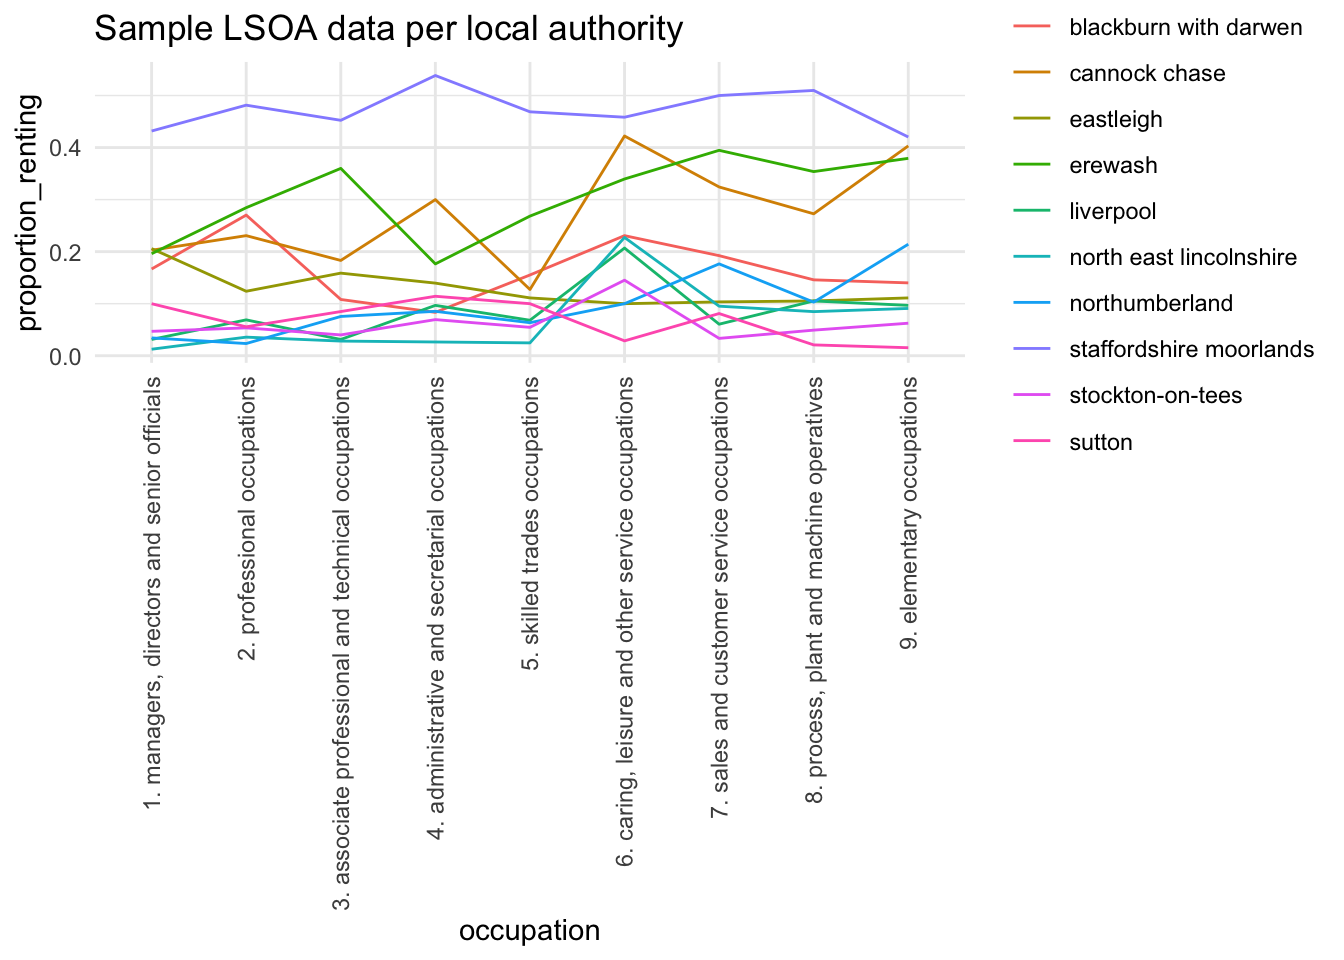
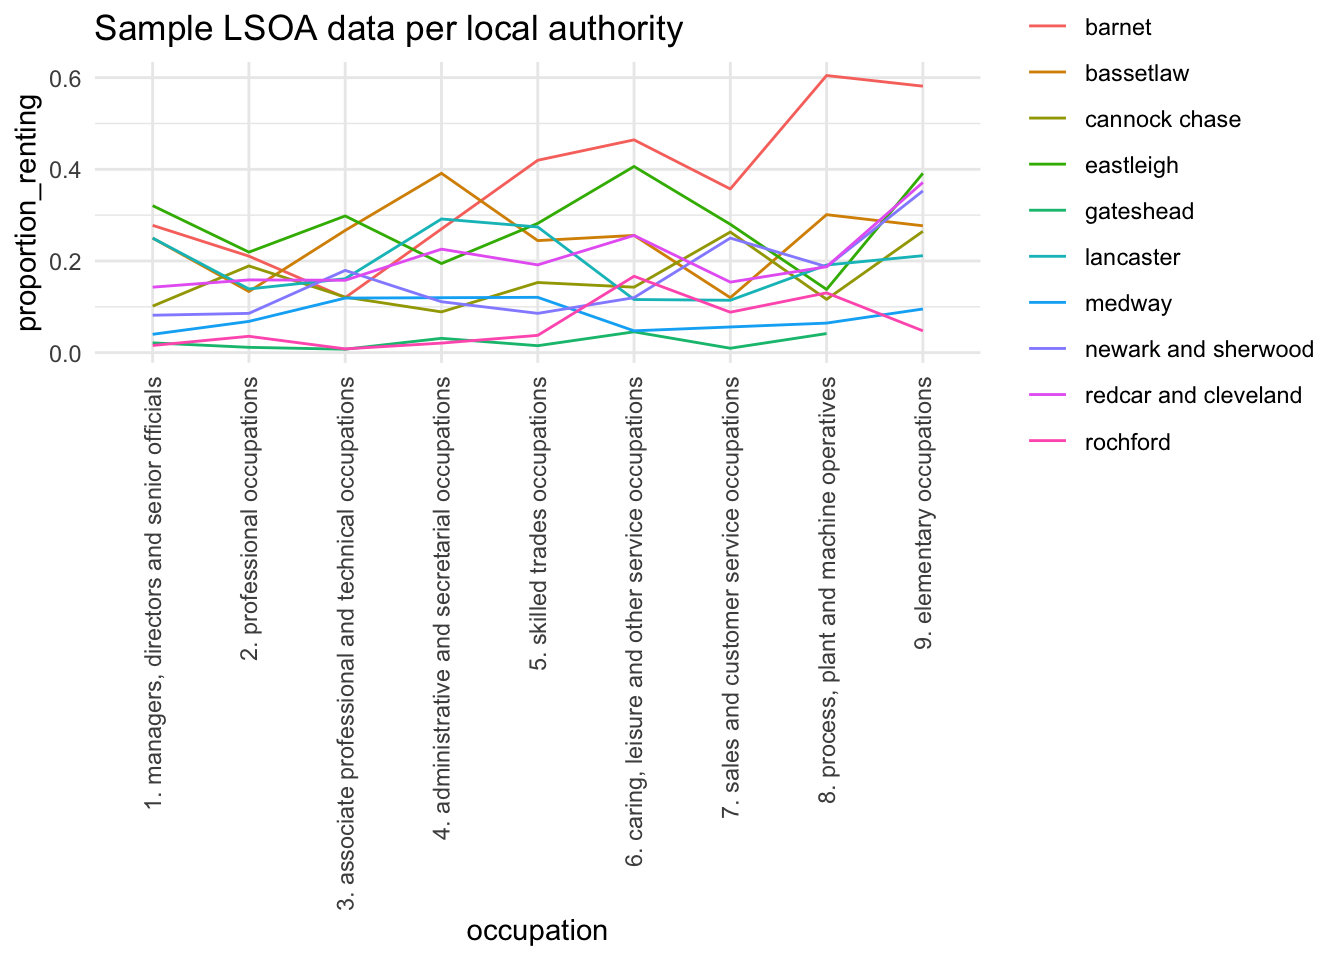
re rendered with new image

diff --git a/docs/posts/miles_per_gallon/index.html b/docs/posts/miles_per_gallon/index.html
@@ -211,14 +211,14 @@ div.csl-indent {
 <div class="cell-output-display">
 <table class="caption-top table table-sm table-striped small">
 <colgroup>
-<col style="width: 20%">
-<col style="width: 17%">
+<col style="width: 19%">
+<col style="width: 19%">
 <col style="width: 9%">
 <col style="width: 7%">
 <col style="width: 6%">
 <col style="width: 6%">
 <col style="width: 4%">
-<col style="width: 17%">
+<col style="width: 16%">
 <col style="width: 10%">
 </colgroup>
 <thead>
@@ -236,14 +236,14 @@ div.csl-indent {
 </thead>
 <tbody>
 <tr class="odd">
-<td style="text-align: left;">nissan</td>
-<td style="text-align: left;">altima</td>
-<td style="text-align: right;">2.4</td>
+<td style="text-align: left;">toyota</td>
+<td style="text-align: left;">camry</td>
+<td style="text-align: right;">2.2</td>
 <td style="text-align: left;">1999</td>
 <td style="text-align: right;">4</td>
 <td style="text-align: right;">21</td>
 <td style="text-align: left;">r</td>
-<td style="text-align: left;">compact</td>
+<td style="text-align: left;">midsize</td>
 <td style="text-align: left;">manual</td>
 </tr>
 <tr class="even">
@@ -259,90 +259,90 @@ div.csl-indent {
 </tr>
 <tr class="odd">
 <td style="text-align: left;">volkswagen</td>
-<td style="text-align: left;">passat</td>
-<td style="text-align: right;">2.8</td>
+<td style="text-align: left;">gti</td>
+<td style="text-align: right;">2.0</td>
 <td style="text-align: left;">1999</td>
-<td style="text-align: right;">6</td>
-<td style="text-align: right;">16</td>
-<td style="text-align: left;">p</td>
-<td style="text-align: left;">midsize</td>
+<td style="text-align: right;">4</td>
+<td style="text-align: right;">19</td>
+<td style="text-align: left;">r</td>
+<td style="text-align: left;">compact</td>
 <td style="text-align: left;">auto</td>
 </tr>
 <tr class="even">
-<td style="text-align: left;">volkswagen</td>
-<td style="text-align: left;">new beetle</td>
+<td style="text-align: left;">toyota</td>
+<td style="text-align: left;">camry solara</td>
+<td style="text-align: right;">3.3</td>
+<td style="text-align: left;">2008</td>
+<td style="text-align: right;">6</td>
+<td style="text-align: right;">18</td>
+<td style="text-align: left;">r</td>
+<td style="text-align: left;">compact</td>
+<td style="text-align: left;">auto</td>
+</tr>
+<tr class="odd">
+<td style="text-align: left;">hyundai</td>
+<td style="text-align: left;">tiburon</td>
+<td style="text-align: right;">2.0</td>
+<td style="text-align: left;">2008</td>
+<td style="text-align: right;">4</td>
+<td style="text-align: right;">20</td>
+<td style="text-align: left;">r</td>
+<td style="text-align: left;">subcompact</td>
+<td style="text-align: left;">manual</td>
+</tr>
+<tr class="even">
+<td style="text-align: left;">hyundai</td>
+<td style="text-align: left;">tiburon</td>
 <td style="text-align: right;">2.0</td>
 <td style="text-align: left;">1999</td>
 <td style="text-align: right;">4</td>
 <td style="text-align: right;">19</td>
 <td style="text-align: left;">r</td>
 <td style="text-align: left;">subcompact</td>
-<td style="text-align: left;">auto</td>
+<td style="text-align: left;">manual</td>
 </tr>
 <tr class="odd">
-<td style="text-align: left;">nissan</td>
-<td style="text-align: left;">altima</td>
-<td style="text-align: right;">2.5</td>
-<td style="text-align: left;">2008</td>
-<td style="text-align: right;">4</td>
-<td style="text-align: right;">23</td>
+<td style="text-align: left;">toyota</td>
+<td style="text-align: left;">camry solara</td>
+<td style="text-align: right;">3.0</td>
+<td style="text-align: left;">1999</td>
+<td style="text-align: right;">6</td>
+<td style="text-align: right;">18</td>
 <td style="text-align: left;">r</td>
-<td style="text-align: left;">midsize</td>
+<td style="text-align: left;">compact</td>
 <td style="text-align: left;">auto</td>
 </tr>
 <tr class="even">
-<td style="text-align: left;">toyota</td>
-<td style="text-align: left;">corolla</td>
-<td style="text-align: right;">1.8</td>
-<td style="text-align: left;">2008</td>
+<td style="text-align: left;">volkswagen</td>
+<td style="text-align: left;">jetta</td>
+<td style="text-align: right;">2.0</td>
+<td style="text-align: left;">1999</td>
 <td style="text-align: right;">4</td>
-<td style="text-align: right;">26</td>
+<td style="text-align: right;">19</td>
 <td style="text-align: left;">r</td>
 <td style="text-align: left;">compact</td>
 <td style="text-align: left;">auto</td>
 </tr>
 <tr class="odd">
-<td style="text-align: left;">nissan</td>
-<td style="text-align: left;">altima</td>
-<td style="text-align: right;">3.5</td>
-<td style="text-align: left;">2008</td>
-<td style="text-align: right;">6</td>
-<td style="text-align: right;">19</td>
-<td style="text-align: left;">p</td>
-<td style="text-align: left;">midsize</td>
-<td style="text-align: left;">manual</td>
-</tr>
-<tr class="even">
-<td style="text-align: left;">chevrolet</td>
-<td style="text-align: left;">malibu</td>
-<td style="text-align: right;">3.1</td>
-<td style="text-align: left;">1999</td>
-<td style="text-align: right;">6</td>
-<td style="text-align: right;">18</td>
-<td style="text-align: left;">r</td>
-<td style="text-align: left;">midsize</td>
-<td style="text-align: left;">auto</td>
-</tr>
-<tr class="odd">
-<td style="text-align: left;">honda</td>
-<td style="text-align: left;">civic</td>
-<td style="text-align: right;">1.6</td>
-<td style="text-align: left;">1999</td>
-<td style="text-align: right;">4</td>
-<td style="text-align: right;">24</td>
-<td style="text-align: left;">r</td>
-<td style="text-align: left;">subcompact</td>
-<td style="text-align: left;">auto</td>
-</tr>
-<tr class="even">
-<td style="text-align: left;">pontiac</td>
-<td style="text-align: left;">grand prix</td>
-<td style="text-align: right;">3.8</td>
+<td style="text-align: left;">volkswagen</td>
+<td style="text-align: left;">jetta</td>
+<td style="text-align: right;">2.8</td>
 <td style="text-align: left;">1999</td>
 <td style="text-align: right;">6</td>
 <td style="text-align: right;">17</td>
 <td style="text-align: left;">r</td>
-<td style="text-align: left;">midsize</td>
+<td style="text-align: left;">compact</td>
+<td style="text-align: left;">manual</td>
+</tr>
+<tr class="even">
+<td style="text-align: left;">honda</td>
+<td style="text-align: left;">civic</td>
+<td style="text-align: right;">1.8</td>
+<td style="text-align: left;">2008</td>
+<td style="text-align: right;">4</td>
+<td style="text-align: right;">25</td>
+<td style="text-align: left;">r</td>
+<td style="text-align: left;">subcompact</td>
 <td style="text-align: left;">auto</td>
 </tr>
 </tbody>
@@ -736,7 +736,7 @@ deviance = -231.0 </code></pre>
     (p-value based on 10000 simulated values)
 
 data:  
-RLRT = 13.167, p-value &lt; 2.2e-16</code></pre>
+RLRT = 13.167, p-value = 1e-04</code></pre>
 </div>
 </div>
 <p>So we reject the hypothesis that manufacturer:model nesting effect is not significant. <br></p>
@@ -747,7 +747,7 @@ RLRT = 13.167, p-value &lt; 2.2e-16</code></pre>
 </div>
 <div class="cell-output cell-output-stderr">
 <pre><code>
-91 message(s): boundary (singular) fit: see help('isSingular')</code></pre>
+93 message(s): boundary (singular) fit: see help('isSingular')</code></pre>
 </div>
 <div class="cell-output-display">
 <table class="caption-top table table-sm table-striped small">
@@ -761,33 +761,33 @@ RLRT = 13.167, p-value &lt; 2.2e-16</code></pre>
 <tbody>
 <tr class="odd">
 <td style="text-align: left;">.sig01</td>
-<td style="text-align: right;">0.0080955</td>
-<td style="text-align: right;">0.0726913</td>
+<td style="text-align: right;">0.0054688</td>
+<td style="text-align: right;">0.0723054</td>
 </tr>
 <tr class="even">
 <td style="text-align: left;">.sig02</td>
 <td style="text-align: right;">0.0000000</td>
-<td style="text-align: right;">0.1059291</td>
+<td style="text-align: right;">0.1083850</td>
 </tr>
 <tr class="odd">
 <td style="text-align: left;">.sigma</td>
-<td style="text-align: right;">0.0447055</td>
-<td style="text-align: right;">0.0616913</td>
+<td style="text-align: right;">0.0446262</td>
+<td style="text-align: right;">0.0628908</td>
 </tr>
 <tr class="even">
 <td style="text-align: left;">(Intercept)</td>
-<td style="text-align: right;">3.2507162</td>
-<td style="text-align: right;">3.4228451</td>
+<td style="text-align: right;">3.2523867</td>
+<td style="text-align: right;">3.4147202</td>
 </tr>
 <tr class="odd">
 <td style="text-align: left;">displ</td>
-<td style="text-align: right;">-0.1759481</td>
-<td style="text-align: right;">-0.1244415</td>
+<td style="text-align: right;">-0.1763950</td>
+<td style="text-align: right;">-0.1222942</td>
 </tr>
 <tr class="even">
 <td style="text-align: left;">year2008</td>
-<td style="text-align: right;">0.0574241</td>
-<td style="text-align: right;">0.1068758</td>
+<td style="text-align: right;">0.0593691</td>
+<td style="text-align: right;">0.1060484</td>
 </tr>
 </tbody>
 </table>

diff --git a/docs/posts/occupation_impact_on_rentals/index.html b/docs/posts/occupation_impact_on_rentals/index.html
@@ -207,10 +207,10 @@ div.csl-indent {
 <colgroup>
 <col style="width: 13%">
 <col style="width: 11%">
+<col style="width: 14%">
+<col style="width: 20%">
 <col style="width: 15%">
-<col style="width: 21%">
-<col style="width: 15%">
-<col style="width: 18%">
+<col style="width: 19%">
 <col style="width: 4%">
 </colgroup>
 <thead>
@@ -226,58 +226,58 @@ div.csl-indent {
 </thead>
 <tbody>
 <tr class="odd">
-<td style="text-align: left;">E01027357</td>
-<td style="text-align: left;">Northumberland 004B</td>
-<td style="text-align: right;">1</td>
-<td style="text-align: left;">Owned: Owns with a mortgage or loan or shared ownership</td>
-<td style="text-align: right;">4</td>
-<td style="text-align: left;">4. Administrative and secretarial occupations</td>
-<td style="text-align: right;">8</td>
-</tr>
-<tr class="even">
-<td style="text-align: left;">E01027189</td>
-<td style="text-align: left;">West Northamptonshire 025D</td>
+<td style="text-align: left;">E01019743</td>
+<td style="text-align: left;">High Peak 006C</td>
 <td style="text-align: right;">-8</td>
 <td style="text-align: left;">Does not apply</td>
-<td style="text-align: right;">4</td>
-<td style="text-align: left;">4. Administrative and secretarial occupations</td>
-<td style="text-align: right;">0</td>
-</tr>
-<tr class="odd">
-<td style="text-align: left;">E01023916</td>
-<td style="text-align: left;">Welwyn Hatfield 006A</td>
-<td style="text-align: right;">0</td>
-<td style="text-align: left;">Owned: Owns outright</td>
-<td style="text-align: right;">2</td>
-<td style="text-align: left;">2. Professional occupations</td>
-<td style="text-align: right;">23</td>
-</tr>
-<tr class="even">
-<td style="text-align: left;">E01000474</td>
-<td style="text-align: left;">Brent 026B</td>
-<td style="text-align: right;">3</td>
-<td style="text-align: left;">Private rented or lives rent free</td>
-<td style="text-align: right;">6</td>
-<td style="text-align: left;">6. Caring, leisure and other service occupations</td>
-<td style="text-align: right;">4</td>
-</tr>
-<tr class="odd">
-<td style="text-align: left;">E01007205</td>
-<td style="text-align: left;">Wirral 006B</td>
-<td style="text-align: right;">2</td>
-<td style="text-align: left;">Rented: Social rented</td>
-<td style="text-align: right;">1</td>
-<td style="text-align: left;">1. Managers, directors and senior officials</td>
-<td style="text-align: right;">6</td>
-</tr>
-<tr class="even">
-<td style="text-align: left;">W01000384</td>
-<td style="text-align: left;">Wrexham 022C</td>
-<td style="text-align: right;">0</td>
-<td style="text-align: left;">Owned: Owns outright</td>
 <td style="text-align: right;">7</td>
 <td style="text-align: left;">7. Sales and customer service occupations</td>
+<td style="text-align: right;">0</td>
+</tr>
+<tr class="even">
+<td style="text-align: left;">E01000742</td>
+<td style="text-align: left;">Bromley 005C</td>
+<td style="text-align: right;">0</td>
+<td style="text-align: left;">Owned: Owns outright</td>
 <td style="text-align: right;">8</td>
+<td style="text-align: left;">8. Process, plant and machine operatives</td>
+<td style="text-align: right;">0</td>
+</tr>
+<tr class="odd">
+<td style="text-align: left;">E01023998</td>
+<td style="text-align: left;">Ashford 014B</td>
+<td style="text-align: right;">2</td>
+<td style="text-align: left;">Rented: Social rented</td>
+<td style="text-align: right;">8</td>
+<td style="text-align: left;">8. Process, plant and machine operatives</td>
+<td style="text-align: right;">6</td>
+</tr>
+<tr class="even">
+<td style="text-align: left;">E01031276</td>
+<td style="text-align: left;">Warwick 006D</td>
+<td style="text-align: right;">2</td>
+<td style="text-align: left;">Rented: Social rented</td>
+<td style="text-align: right;">6</td>
+<td style="text-align: left;">6. Caring, leisure and other service occupations</td>
+<td style="text-align: right;">18</td>
+</tr>
+<tr class="odd">
+<td style="text-align: left;">E01001776</td>
+<td style="text-align: left;">Hackney 025F</td>
+<td style="text-align: right;">-8</td>
+<td style="text-align: left;">Does not apply</td>
+<td style="text-align: right;">3</td>
+<td style="text-align: left;">3. Associate professional and technical occupations</td>
+<td style="text-align: right;">0</td>
+</tr>
+<tr class="even">
+<td style="text-align: left;">E01032333</td>
+<td style="text-align: left;">Worcester 005F</td>
+<td style="text-align: right;">1</td>
+<td style="text-align: left;">Owned: Owns with a mortgage or loan or shared ownership</td>
+<td style="text-align: right;">-8</td>
+<td style="text-align: left;">Does not apply</td>
+<td style="text-align: right;">14</td>
 </tr>
 </tbody>
 </table>

diff --git a/docs/index.html b/docs/index.html
@@ -210,7 +210,7 @@ window.Quarto = {
     </div>
 </div>
 <div class="list quarto-listing-default">
[2 lines of base64/hex data omitted]
 <div class="thumbnail"><a href="./posts/occupation_impact_on_rentals/index.html" class="no-external">
 
 <img loading="lazy" src="./posts/occupation_impact_on_rentals/rentals_2021.png" class="thumbnail-image">
@@ -246,7 +246,7 @@ Prateek
 </a>
 </div>
 </div>
-<div class="quarto-post image-right" data-index="1" data-categories="cmFuZG9tJTIwZWZmZWN0cyUyQ2hpZXJhcmNoaWNhbCUyMG1vZGVscw==" data-listing-date-sort="1763856000000" data-listing-file-modified-sort="1764746664691" data-listing-date-modified-sort="NaN" data-listing-reading-time-sort="10" data-listing-word-count-sort="1866">
+<div class="quarto-post image-right" data-index="1" data-categories="cmFuZG9tJTIwZWZmZWN0cyUyQ2hpZXJhcmNoaWNhbCUyMG1vZGVscw==" data-listing-date-sort="1763856000000" data-listing-file-modified-sort="1764749393739" data-listing-date-modified-sort="NaN" data-listing-reading-time-sort="10" data-listing-word-count-sort="1866">
 <div class="thumbnail"><a href="./posts/miles_per_gallon/index.html" class="no-external">
 
 <img loading="lazy" src="./posts/miles_per_gallon/mpg.jpg" class="thumbnail-image">
